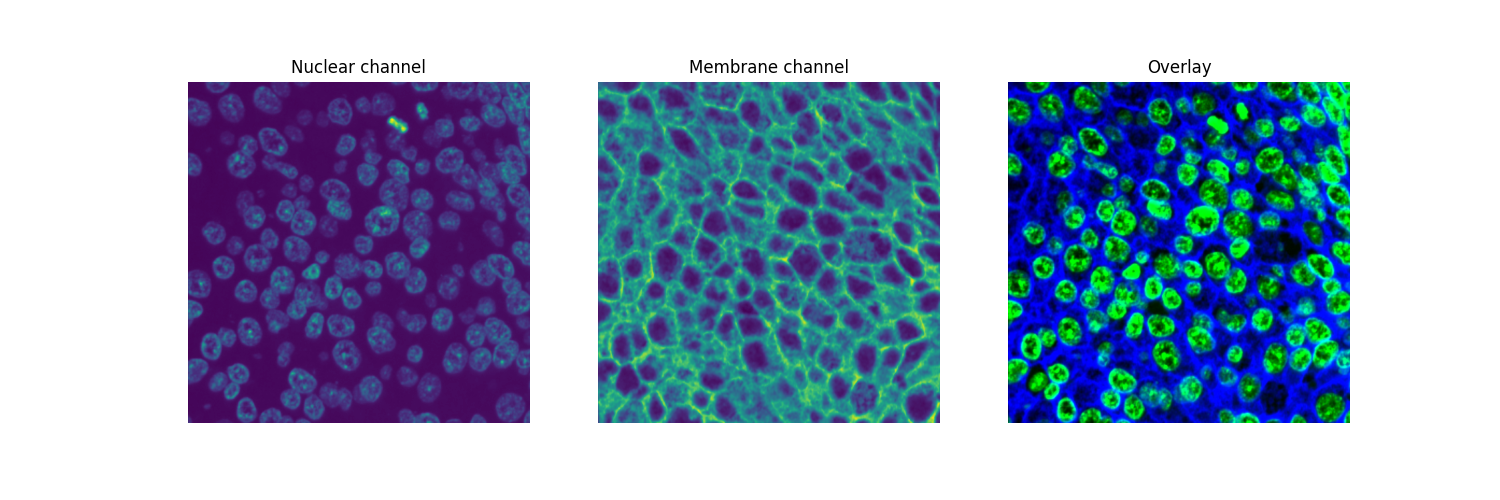
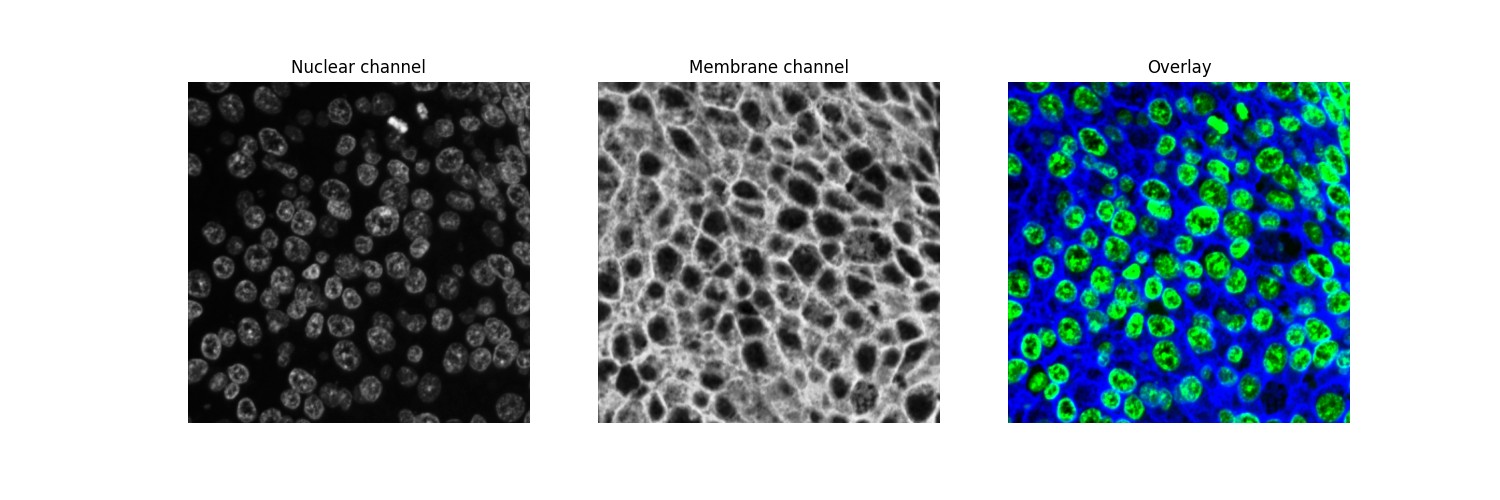
Update mesmer application and documentation script

diff --git a/docs/source/applications/mesmer.py b/docs/source/applications/mesmer.py
@@ -1,35 +1,34 @@
+# %%
 """
 Mesmer: Tissue Segmentation
 ===========================
 
-TODO add api key info
+Mesmer can be accessed using `deepcell.applications` with a DeepCell API key.
 
-TODO update dataset info
+For more information about using a DeepCell API key, please see :doc:`/API-key`.
 """
-
-# %%
-
-# Download multiplex data
-from deepcell.datasets import multiplex_tissue
-((X_train, y_train),(X_test, y_test)) = multiplex_tissue.load_data()
-
-# %%
-from deepcell.utils.plot_utils import create_rgb_image
-
-# create rgb overlay of image data for visualization
-rgb_images = create_rgb_image(X_train, channel_colors=['green', 'blue'])
 
 # %%
 from matplotlib import pyplot as plt
 
-# select index for displaying
-idx = 3
+from deepcell.datasets import TissueNetSample
+from deepcell.utils.plot_utils import create_rgb_image, make_outline_overlay
 
+# %%
+
+# Download multiplex data
+X, y, _ = TissueNetSample().load_data()
+
+# %%
+# create rgb overlay of image data for visualization
+rgb_images = create_rgb_image(X, channel_colors=['green', 'blue'])
+
+# %%
 # plot the data
 fig, ax = plt.subplots(1, 3, figsize=(15, 5))
-ax[0].imshow(X_train[idx, ..., 0])
-ax[1].imshow(X_train[idx, ..., 1])
-ax[2].imshow(rgb_images[idx, ...])
+ax[0].imshow(X[0, ..., 0], cmap='Greys_r')
+ax[1].imshow(X[0, ..., 1], cmap='Greys_r')
+ax[2].imshow(rgb_images[0, ...])
 
 ax[0].set_title('Nuclear channel')
 ax[1].set_title('Membrane channel')
@@ -74,18 +73,15 @@ print('Training Resolution:', app.model_mpp, 'microns per pixel')
 # to the original size before returning the labeled image.
 
 # %%
-segmentation_predictions = app.predict(X_train, image_mpp=0.5)
+segmentation_predictions = app.predict(X, image_mpp=0.5)
 
 # %%
-
 # create overlay of predictions
-from deepcell.utils.plot_utils import make_outline_overlay
 overlay_data = make_outline_overlay(rgb_data=rgb_images, predictions=segmentation_predictions)
 
 # %%
-
 # select index for displaying
-idx = 3
+idx = 0
 
 # plot the data
 fig, ax = plt.subplots(1, 2, figsize=(10, 5))
@@ -114,7 +110,7 @@ fig.savefig('mesmer-wc.png')
 # predictions
 
 # %%
-segmentation_predictions_nuc = app.predict(X_train, image_mpp=0.5, compartment='nuclear')
+segmentation_predictions_nuc = app.predict(X, image_mpp=0.5, compartment='nuclear')
 
 # %%
 overlay_data_nuc = make_outline_overlay(
@@ -122,9 +118,8 @@ overlay_data_nuc = make_outline_overlay(
     predictions=segmentation_predictions_nuc)
 
 # %%
-
 # select index for displaying
-idx = 3
+idx = 0
 
 # plot the data
 fig, ax = plt.subplots(1, 2, figsize=(10, 5))
@@ -164,7 +159,7 @@ fig.savefig('mesmer-nuc.png')
 # To demonstrate the effect of `interior_threshold`, we'll compare the default  with a much more
 # stringent setting
 segmentation_predictions_interior = app.predict(
-    X_train,
+    X,
     image_mpp=0.5,
     postprocess_kwargs_whole_cell={'interior_threshold': 0.5})
 overlay_data_interior = make_outline_overlay(
@@ -173,9 +168,8 @@ overlay_data_interior = make_outline_overlay(
 
 
 # %%
-
 # select index for displaying
-idx = 3
+idx = 0
 
 # plot the data
 fig, ax = plt.subplots(1, 2, figsize=(10, 5))
@@ -196,11 +190,10 @@ fig.savefig('mesmer-interior-threshold.png')
 #     :align: center
 
 # %%
-
 # To demonstrate the effect of `maxima_threshold`, we'll compare the default with a much more
 # stringent setting
 segmentation_predictions_maxima = app.predict(
-    X_train,
+    X,
     image_mpp=0.5,
     postprocess_kwargs_whole_cell={'maxima_threshold': 0.8})
 overlay_data_maxima = make_outline_overlay(
@@ -209,9 +202,8 @@ overlay_data_maxima = make_outline_overlay(
 
 
 # %%
-
 # select index for displaying
-idx = 3
+idx = 0
 
 # plot the data
 fig, ax = plt.subplots(1, 2, figsize=(10, 5))
@@ -239,17 +231,15 @@ fig.savefig('mesmer-maxima-threshold.png')
 # will universally apply an expansion after segmentation to each cell
 
 # %%
-
 # To demonstrate the effect of `pixel_expansion`, we'll compare the nuclear output with expanded output
-segmentation_predictions_expansion = app.predict(X_train, image_mpp=0.5, compartment='nuclear',
-                                               postprocess_kwargs_nuclear={'pixel_expansion': 5})
+segmentation_predictions_expansion = app.predict(X, image_mpp=0.5, compartment='nuclear',
+                                                 postprocess_kwargs_nuclear={'pixel_expansion': 5})
 overlay_data_expansion = make_outline_overlay(rgb_data=rgb_images, predictions=segmentation_predictions_expansion)
 
 
 # %%
-
 # select index for displaying
-idx = 3
+idx = 0
 
 # plot the data
 fig, ax = plt.subplots(1, 2, figsize=(10, 5))

diff --git a/deepcell/applications/mesmer.py b/deepcell/applications/mesmer.py
@@ -27,6 +27,7 @@
 
 
 import os
+from pathlib import Path
 
 import numpy as np
 import tensorflow as tf
@@ -36,10 +37,11 @@ from deepcell_toolbox.processing import percentile_threshold
 from deepcell_toolbox.processing import histogram_normalization
 
 from deepcell.applications import Application
+from deepcell.utils import fetch_data, extract_archive
 
 
-MODEL_PATH = ('https://deepcell-data.s3-us-west-1.amazonaws.com/'
-              'saved-models/MultiplexSegmentation-9.tar.gz')
+MODEL_KEY = 'models/MultiplexSegmentation-9.tar.gz'
+MODEL_NAME = 'MultiplexSegmentation'
 MODEL_HASH = 'a1dfbce2594f927b9112f23a0a1739e0'
 
 
@@ -210,12 +212,15 @@ class Mesmer(Application):
     def __init__(self, model=None):
 
         if model is None:
-            archive_path = tf.keras.utils.get_file(
-                'MultiplexSegmentation.tgz', MODEL_PATH,
-                file_hash=MODEL_HASH,
-                extract=True, cache_subdir='models'
+            cache_subdir = "models"
+            model_dir = Path.home() / ".deepcell" / "models"
+            archive_path = fetch_data(
+                asset_key=MODEL_KEY,
+                cache_subdir=cache_subdir,
+                file_hash=MODEL_HASH
             )
-            model_path = os.path.splitext(archive_path)[0]
+            extract_archive(archive_path, model_dir)
+            model_path = model_dir / MODEL_NAME
             model = tf.keras.models.load_model(model_path)
 
         super().__init__(
